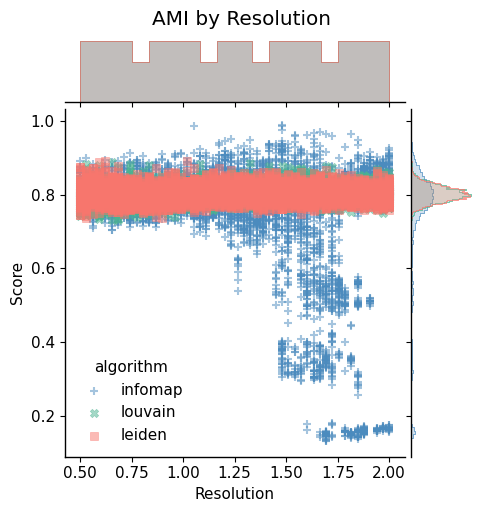
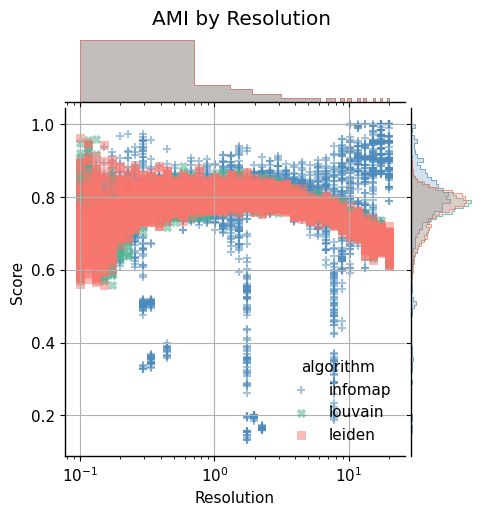
Update resolution parameters and enhance plotting in sensitivity analysis

diff --git a/scripts/03_resolution_sensitivity.py b/scripts/03_resolution_sensitivity.py
@@ -13,7 +13,8 @@ nx.config.warnings_to_ignore.add("cache")
 
 snakemake: Any
 
-RESOLUTIONS = np.linspace(0.5, 2.0, num=50)
+RESOLUTIONS = np.geomspace(0.1, 20, num=40)
+
 TRYS = 15
 algorithm_order = ["infomap", "louvain", "leiden"]
 color_map = {"infomap": "#4B8BBE", "louvain": "#4CB391", "leiden": "#F8766D"}
@@ -147,7 +148,7 @@ def main() -> None:
 
 	# Plotting general trends in number of communities
 	figsize = snakemake.config["figsizes"]["catplot"]
-	fig, ax = plt.subplots(figsize=figsize)
+	fig, ax = plt.subplots()
 	for algorithm in algorithm_order:
 		algorithm_data = df[df["algorithm"] == algorithm]
 		ax.scatter(
@@ -172,6 +173,7 @@ def main() -> None:
 	ax.legend(title="algorithm")
 	# TODO: Add vertical lines for each algorithm's "best" resolution
 	ax.grid(True)
+	ax.set_xscale("log")
 	fig.savefig(snakemake.output[0], bbox_inches="tight")
 
 	# Plotting scores — create separate plots for AMI and NMI using jointplot
@@ -223,10 +225,11 @@ def main() -> None:
 			algorithm_order,
 			title="algorithm",
 		)
-		# TODO: Add vertical lines for each algorithm's "best" resolution
 
 		g.fig.suptitle(f"{score_type} by Resolution", y=1.02)
 		g.set_axis_labels("Resolution", "Score")
+		g.ax_joint.set_xscale("log")
+		g.ax_joint.grid(True)
 		output_path = str(snakemake.output[0]).replace(".png", f"_{score_type}.png")
 
 		plt.savefig(output_path, bbox_inches="tight")

diff --git a/src/graph_construction.py b/src/graph_construction.py
@@ -613,3 +613,51 @@ def compute_sweep_alpha(
 		modularities,
 		nodes_largest_cc,
 	)
+
+
+def gamma_max_from_null_model(graph: nx.Graph) -> float:
+	"""
+	Compute an upper bound for the resolution parameter from the standard null model.
+
+	Uses the analytical bound:
+	    gamma_plus = max_{i != j, P_ij != 0} (A_ij / P_ij)
+	where A is the adjacency matrix and P_ij = k_i * k_j / (2m).
+
+	Parameters
+	----------
+	graph : networkx.Graph
+	    The input graph. Edge weights are supported via the 'weight' attribute.
+
+	Returns
+	-------
+	float
+	    The upper bound for the resolution parameter (gamma_plus).
+	"""
+	# Total edge weight (m)
+	m = graph.size(weight="weight")
+	if m == 0:
+		return 0.0
+
+	# Node degrees (or strengths if weighted)
+	degrees = dict(graph.degree(weight="weight"))
+
+	max_ratio = 0.0
+
+	# Since A_ij = 0 for non-edges, the maximum ratio occurs on an existing edge.
+	for u, v, data in graph.edges(data=True):
+		if u == v:
+			continue  # Skip self-loops (i != j)
+
+		A_ij = data.get("weight", 1.0)
+		k_i = degrees[u]
+		k_j = degrees[v]
+
+		if k_i > 0 and k_j > 0:
+			# P_ij = (k_i * k_j) / (2 * m)
+			# ratio = A_ij / P_ij
+			ratio = (A_ij * 2 * m) / (k_i * k_j)
+
+			if ratio > max_ratio:
+				max_ratio = ratio
+
+	return float(max_ratio)

diff --git a/scripts/tests/test_cuda.py b/scripts/tests/test_cuda.py
@@ -1,5 +1,22 @@
 import networkx as nx
 import time
+import src.graph_construction as gc
+
+Graph = nx.read_gexf("data/graphs/enes_all/caes/projection_hidalgo_0.0043.gexf")
+print("Testing Louvain on real graph...")
+start = time.time()
+num_edges = Graph.number_of_edges()
+degrees = dict(Graph.degree())
+gamma = gc.gamma_max_from_null_model(Graph)
+print(f"Gamma max from null model: {gamma:.4f}")
+
+Graph = nx.read_gexf("data/graphs/enes_all/ciuo/projection_hidalgo_0.0093.gexf")
+print("Testing Louvain on real graph...")
+start = time.time()
+num_edges = Graph.number_of_edges()
+degrees = dict(Graph.degree())
+gamma = gc.gamma_max_from_null_model(Graph)
+print(f"Gamma max from null model: {gamma:.4f}")
 
 # 1. Create a large random graph
 G = nx.fast_gnp_random_graph(n=50000, p=0.0001)
@@ -33,4 +50,3 @@ print(f"Leiden GPU Time: {time.time() - start:.4f}s")
 print(f"Number of communities detected: {len(communities_gpu)}")
 print(f"Sizes of first 5 communities: {[len(c) for c in communities_gpu[:5]]}")
 print(f"Modularity score: {nx.algorithms.community.modularity(G, communities_gpu):.4f}")
-

diff --git a/src/utils.py b/src/utils.py
@@ -4,6 +4,7 @@ from functools import lru_cache
 from pathlib import Path
 import re
 from datetime import date
+import numpy as np
 
 
 @dataclass(frozen=True)
